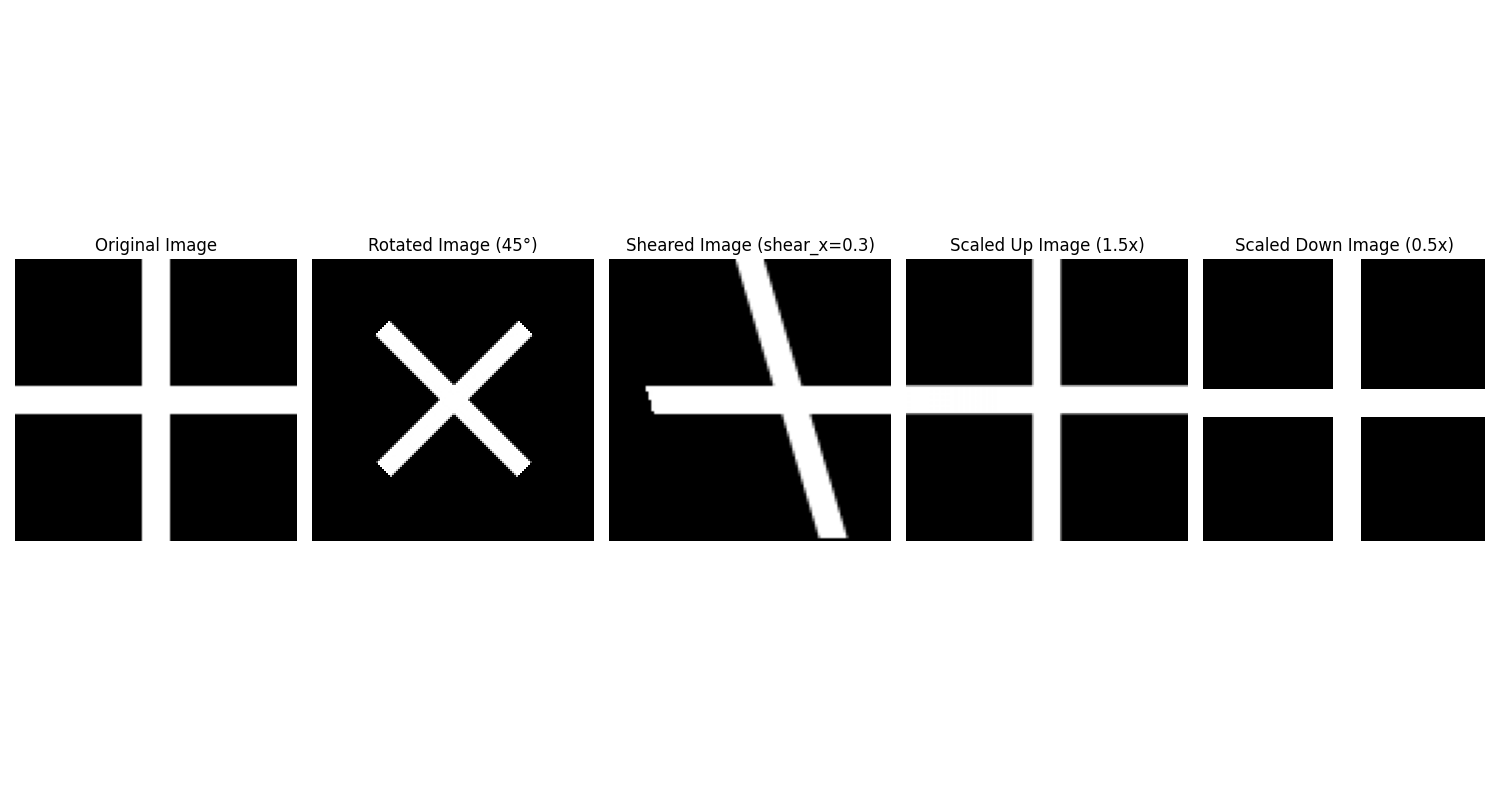
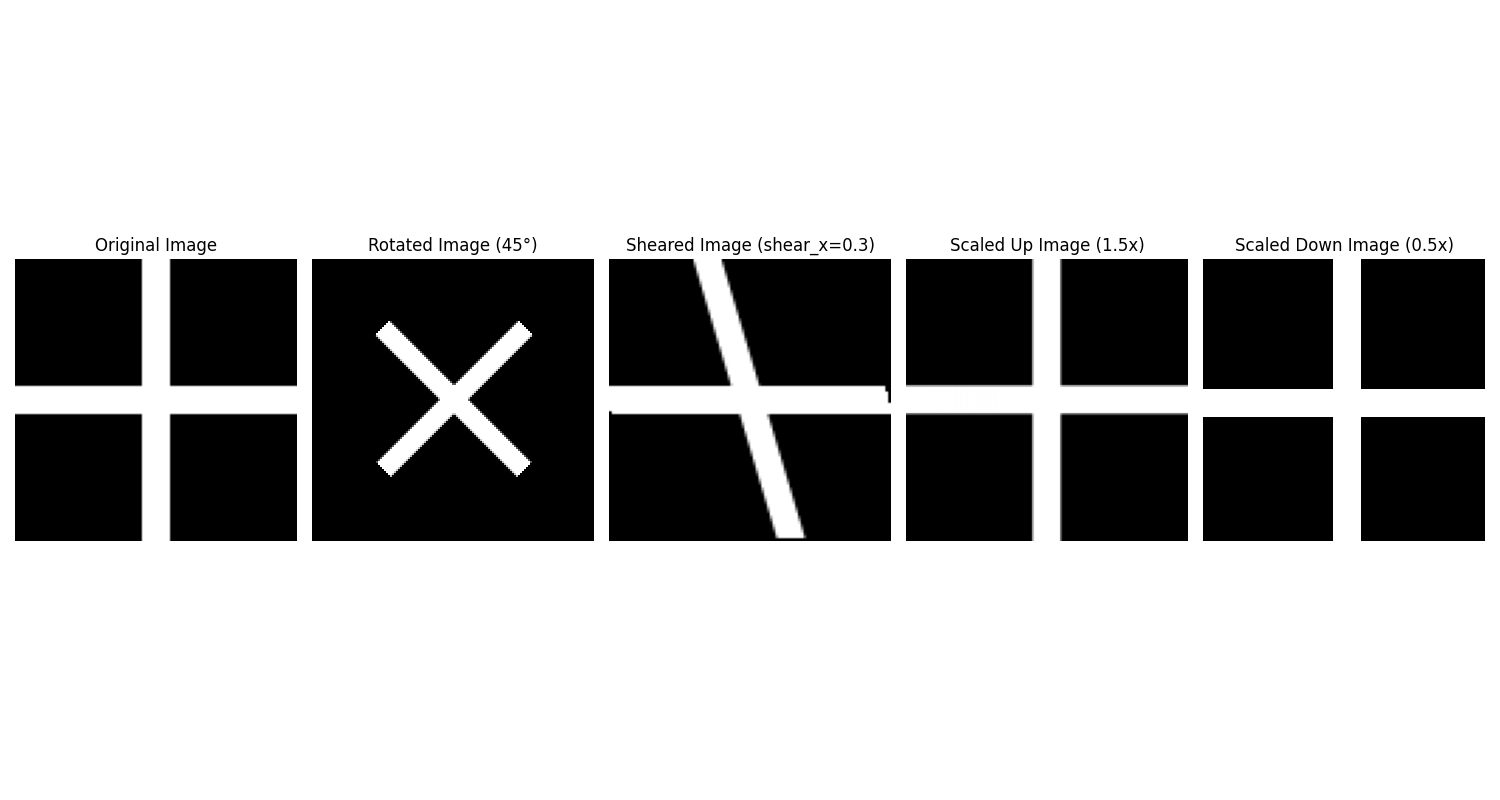
feat(geometric):adding boundry box for shearing transformation

Changed region(s): [[0.46, 0.3125, 0.5827, 0.6875], [0.3987, 0.4688, 0.46, 0.5312]]

diff --git a/processing/geometry/transformations.py b/processing/geometry/transformations.py
@@ -38,21 +38,38 @@ def rotate(image, angle_degrees):
     return output
 
 
-def shear(image,shear_x=0.0, shear_y=0.0):
+def shear(image, shear_x=0.0, shear_y=0.0):
+    h, w = image.shape[:2]
 
-    #get dimensions
-    h,w=image.shape[:2]
-    #same size as input image
-    output= np.zeros_like(image)
-    
-    #apply inverse mapping
+    # Shear around the image center — mirrors how rotate() uses new_cx / new_cy
+    cx, cy = w / 2, h / 2
+
+    # Output stays the same size as input (same as rotate's new_w x new_h pattern
+    # but here we keep original dims since shear is anchored to center)
+    if image.ndim == 3:
+        output = np.zeros((h, w, image.shape[2]), dtype=np.uint8)
+    else:
+        output = np.zeros((h, w), dtype=np.uint8)
+
+    # Determinant of the shear matrix for exact inverse
+    det = 1.0 - shear_x * shear_y
+
     for y_out in range(h):
         for x_out in range(w):
-            #inverse shear
-            x_src= x_out - shear_x * y_out
-            y_src= y_out - shear_y * x_out
-            #interpolation
-            output[y_out, x_out]=np.clip(bilinear_interpolation_pixel(image, x_src, y_src),0,255)
+            # Translate to center origin (same trick as rotate's dx, dy)
+            dx = x_out - cx
+            dy = y_out - cy
+
+            # Exact inverse shear, then translate back
+            x_src = (dx - shear_x * dy) / det + cx
+            y_src = (dy - shear_y * dx) / det + cy
+
+            output[y_out, x_out] = np.clip(
+                bilinear_interpolation_pixel(image, x_src, y_src), 0, 255
+            )
+
+    return output
+
     return output
 #warpper function for zooming
 def scale(image, scale_factor, method="bilinear"):